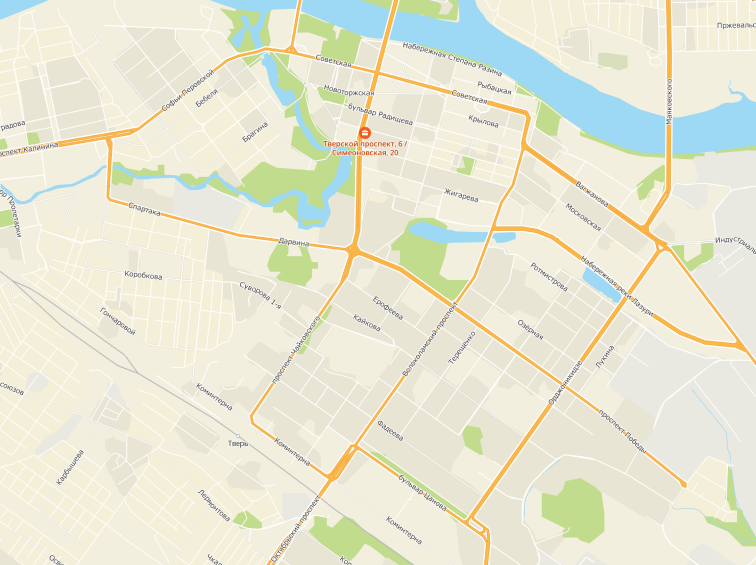
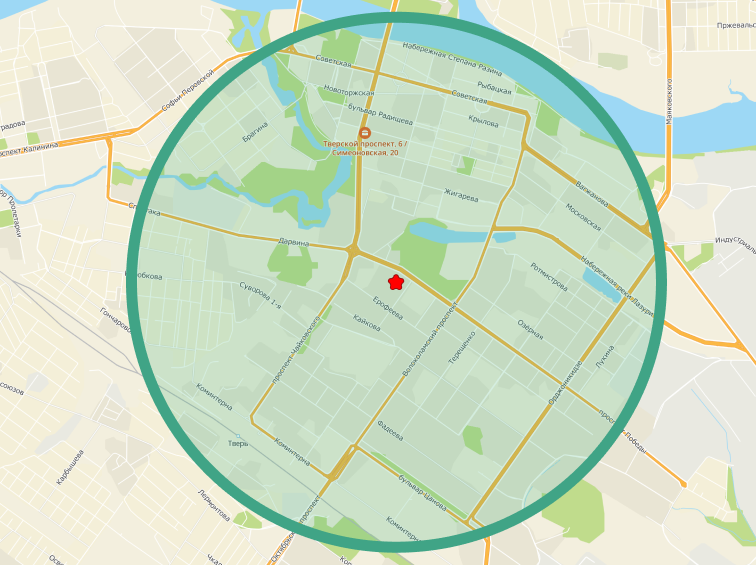
Added menu bar and delivery info. Styles are not corrected still

diff --git a/pizza-app/src/delivery/deliveryDescription.component.jsx b/pizza-app/src/delivery/deliveryDescription.component.jsx
@@ -1,0 +1,16 @@
+import React from "react";
+import {StyledDeliveryDescription} from "./deliveryDescription.style";
+import {Map} from "./map/map.component";
+
+export const DeliveryDecription = () =>
+	<StyledDeliveryDescription>
+		<Map />
+		<div>
+			<ul>
+				<li>Доставка в пределах 30 минут</li>
+				<li>Оплата наличными или по карте</li>
+				<li>Крупная зона доставки</li>
+				<li>Оплата при получении</li>
+			</ul>
+		</div>
+	</StyledDeliveryDescription>;

diff --git a/pizza-app/src/delivery/delivery.component.jsx b/pizza-app/src/delivery/delivery.component.jsx
@@ -1,5 +1,14 @@
 import React from "react";
 import {StyledDelivery} from "./delivery.style";
+import {SiteBlockLabel} from "../siteBlockLabel/siteBlockLabel.component";
+import {deliveryLabel} from "./images";
+import {Map} from "./map/map.component";
+import {DeliveryDecription} from "./deliveryDescription.component";
 
 export const Delivery = () =>
-	<StyledDelivery />;
+	<StyledDelivery>
+		<SiteBlockLabel background={deliveryLabel} />
+		<DeliveryDecription>
+			<Map />
+		</DeliveryDecription>
+	</StyledDelivery>;

diff --git a/pizza-app/src/app.component.jsx b/pizza-app/src/app.component.jsx
@@ -6,12 +6,14 @@ import {StyledHeader} from "./header/header.style";
 import {Header} from "./header/header.component";
 import {Footer} from "./footer/footer.component";
 import {Delivery} from "./delivery/delivery.component";
+import {MenuBar} from "./menuBar/menuBar.component";
 
 export const App = () => {
 	return (
 		<Router>
 			<StyledAppContainer>
 				<Header />
+				<MenuBar />
 				<Delivery />
 				<Footer />
 			</StyledAppContainer>

diff --git a/pizza-app/src/menuBar/menuBar.component.jsx b/pizza-app/src/menuBar/menuBar.component.jsx
@@ -1,0 +1,10 @@
+import React from "react";
+import {StyledMenuBar} from "./menuBar.style";
+import {closedPizzaIcon, openPizzaIcon, drinksIcon} from "./images";
+import {MenuButton} from "./menuButton.component";
+
+export const MenuBar = () => <StyledMenuBar>
+	<MenuButton background={closedPizzaIcon} />
+	<MenuButton background={openPizzaIcon} />
+	<MenuButton background={drinksIcon} />
+</StyledMenuBar>;

diff --git a/pizza-app/src/delivery/deliveryDescription.style.js b/pizza-app/src/delivery/deliveryDescription.style.js
@@ -1,11 +1,12 @@
 import styled from "styled-components";
 
-export const StyledDelivery = styled.div`
+export const StyledDeliveryDescription = styled.div`
 	margin-top: 45px;
 	margin-bottom: 45px;
-	width: 1000;
-	height: 688;
+	height: 566px;
+	width: 1200px;
 	display: flex;
-    flex-direction: column;
+    flex-direction: row;
     justify-content: space-around;
+    background: #F9F0DC;
 	`;

diff --git a/pizza-app/src/menuBar/menuBar.style.js b/pizza-app/src/menuBar/menuBar.style.js
@@ -1,10 +1,9 @@
 import styled from "styled-components";
 
-export const StyledHeader = styled.div`
+export const StyledMenuBar = styled.div`
 	display: flex;
     flex-direction: row;
     justify-content: space-around;
+    height: 500px;
     align-items:center;
-    font-family: "Red Hat Display";
-    background: #572000;
 `

diff --git a/pizza-app/src/menuBar/menuButton.component.jsx b/pizza-app/src/menuBar/menuButton.component.jsx
@@ -1,0 +1,10 @@
+import React from "react";
+import {StyledMenuButton} from "./menuButton.style";
+// import {closedPizzaIcon, openPizzaIcon, drinksIcon} from "./images";
+
+export function MenuButton(props) {
+	const {background} = props;
+	return <StyledMenuButton>
+		<img src={background} />
+	</StyledMenuButton>;
+}

diff --git a/pizza-app/src/siteBlockLabel/siteBlockLabel.component.jsx b/pizza-app/src/siteBlockLabel/siteBlockLabel.component.jsx
@@ -1,0 +1,10 @@
+import React from "react";
+import {StyledSiteBlockLabel} from "./siteBlockLabel.style";
+// import {deliveryLabel} from "../images";
+
+export function SiteBlockLabel(props){
+	const {background}=props;
+	return <StyledSiteBlockLabel>
+		<img src={background} />
+	</StyledSiteBlockLabel>;
+}

diff --git a/pizza-app/src/header/menuAndScheduleHeader/menuAndScheduleHeader.style.js b/pizza-app/src/header/menuAndScheduleHeader/menuAndScheduleHeader.style.js
@@ -5,7 +5,7 @@ export const StyledMenuAndScheduleHeader = styled.div`
     display: flex;
     flex-direction: column;
     justify-content: flex-start;
-    font-family: Times New Roman;
+    font-family: "Red Hat Display";
     color: rgb(251, 232, 191);
     align-items:center;
 `;

diff --git a/pizza-app/src/delivery/map/map.style.js b/pizza-app/src/delivery/map/map.style.js
@@ -1,0 +1,8 @@
+import styled from "styled-components";
+import {deliveryMap} from "../images";
+
+export const StyledMap= styled.div`
+	width: 756px;
+	height: 567px;
+	background: url(${deliveryMap}) center no-repeat;
+`;

diff --git a/pizza-app/src/app.styles.js b/pizza-app/src/app.styles.js
@@ -1,7 +1,7 @@
 import styled from 'styled-components';
 
 export const StyledAppContainer = styled.div`
-  max-width: 1440px;
-  margin: 0 auto;
-
+	max-width: 1440px;
+	margin: 0 auto;
+	background: #D1A653;
 `;

diff --git a/pizza-app/src/menuBar/images/index.js b/pizza-app/src/menuBar/images/index.js
@@ -1,0 +1,3 @@
+export {default as closedPizzaIcon} from "./closedPizzaIcon.png";
+export {default as openPizzaIcon} from "./openPizzaIcon.png";
+export {default as drinksIcon} from "./drinksIcon.png";
